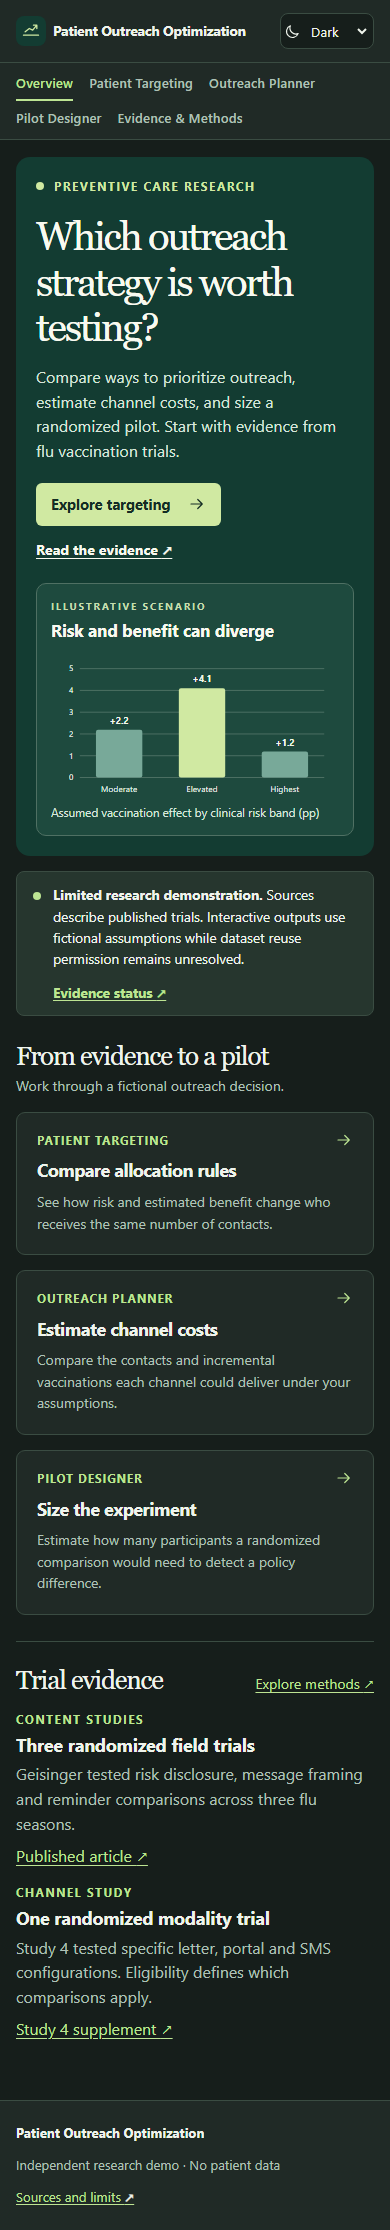
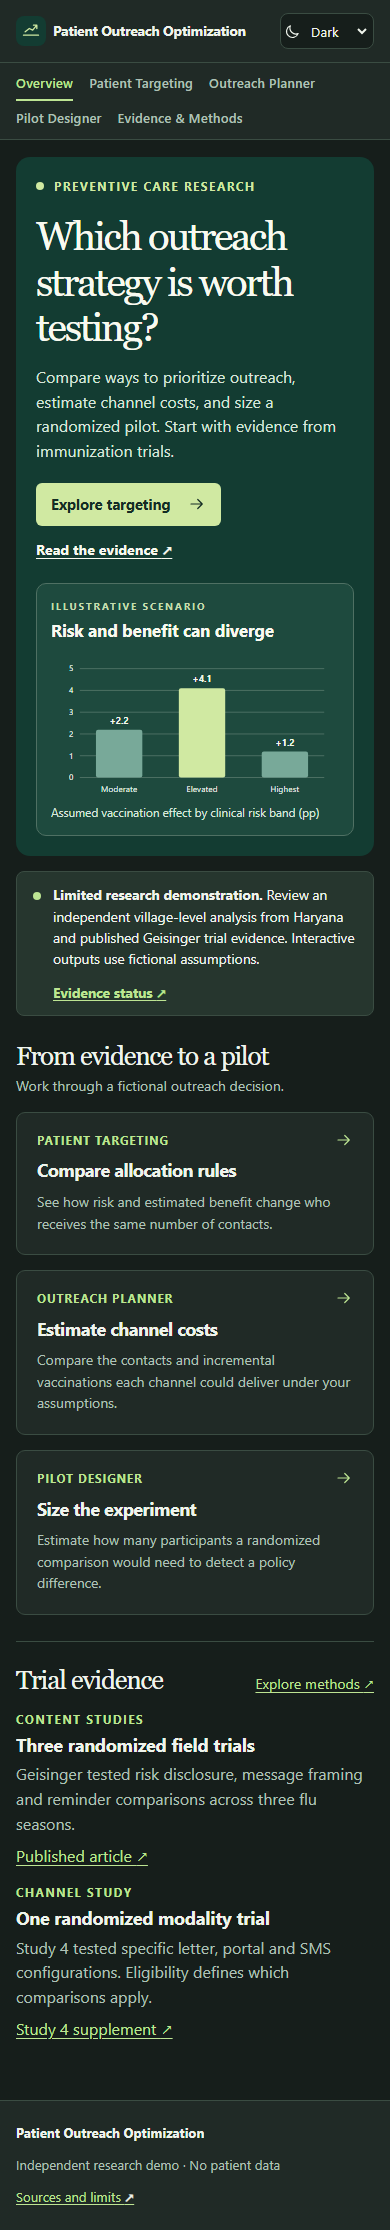
Record verified Haryana release and production screenshots

diff --git a/progress.md b/progress.md
@@ -1,6 +1,6 @@
 # Project progress
 
-2026-11-24 · Limited research demonstration published
+2026-11-24 · Original v0.1.0-demo checkpoint
 
 - The authoritative v1.0 contract was copied byte for byte. Reviewed all four source inputs and archived their unchanged originals locally. The independent review identifies itself as v0.2.
 - Git main holds the bootstrap and the 16cc9ed pre-analysis protocol, tagged research-protocol-v1. The production build is from d988063bb75e2870ad8e26e2edf316919d81c6d6. Use git log for the latest handoff checkpoint.
@@ -18,14 +18,15 @@
 - Verified the openly licensed Haryana immunization package against the deposit checksum and inspected its CSV headers and counts. The prepared analysis file has 28,903 village-month records. The [feasibility review](research/DATASET_FEASIBILITY.md) records the separate cluster-level scope and locks the first independent check against published Figure 4.
 - The independent Haryana check passed both published rounding targets, 1.89 additional measles vaccinations per village-month for information-hub ambassador assignment and a pure-control mean of 7.32. The sample covers 7,370 village-months. Statsmodels agreed with the coefficient and CR0 standard error to `1e-10`. See the [experiment report](docs/EXPERIMENT_REPORT.md#haryana-figure-4-replication) and [run artifact](research/reports/haryana_figure4_replication.json). Design-based uncertainty remains open. The production app serves the limited demo.
 
-## Haryana evidence release candidate
+## Haryana evidence published in v0.2.0-demo
 
 - Protocol commit `f77bfd6` specifies the sensitivity and frozen PHC evaluation. In 902 villages, PHC clustering widened the Figure 4 interval to −0.07 to 3.86 at the same +1.89 estimate. Equal village-month weights gave +0.68. Statsmodels agreed.
 - Fitted preset ridge models on 14 PHCs and evaluated learned and simple rules in 42 villages across 19 separate PHCs. All nominal intervals span zero. The synthetic runs show uneven coverage and illustrative spillover bias. The conditional Fisher diagnostic addresses a distinct null.
 - Verified CC BY 4.0 companion Haryana and CC0 Sierra Leone original files. Sierra Leone provides matched village triplets and a household-randomized component. Its effects have not been estimated here.
 - Geisinger metadata still matches all 20 pins. The node license remains null. The Study 4 notebook confirms the primary subset and six arms. Permission correspondence is drafted and unsent. No participant payloads acquired.
 - Trial benchmark frozen at `571bc45`. Thirty protocols and 35 checks completed. The raw local model and registry matched 3 of 30 scorable fields each. The verifier matched zero and abstained on all five designated cases. Reviewed source summaries remain the release path.
-- Seventeen Python and three Node tests passed, plus Ruff, mypy, strict TypeScript, all 12 local browser tests, advisory queries, the public projection and the five-file allowlist. The prior Pages deployment still serves its four verified asset digests.
+- Seventeen Python tests, three Node tests and 12 local plus 12 live browser tests passed. Ruff, mypy, strict TypeScript, GitHub CI, the public projection and the five-file allowlist passed. npm and the scoped OSV queries reported zero advisories. Eleven local captures matched production. [Verification](docs/TEST_EVIDENCE.md)
+- Build commit `dad2575` serves as `v0.2.0-demo` on the existing Pages project. Deployment ID `75a71ff8-c3c6-414b-b01c-12780f6dca7e`. GitHub publication and stable production were verified. The original deployment still serves its original four asset digests. Additional external service cost was $0. [Deployment ledger](docs/DEPLOYMENT.md)
 
 ## Resume
 

diff --git a/docs/UI_DESIGN.md b/docs/UI_DESIGN.md
@@ -29,7 +29,9 @@ When adding approved research, use the existing Evidence & Methods hierarchy for
 
 ## Screenshot references
 
-Full-page captures use the pinned Playwright Chromium on Windows, default workflow inputs, 1× device scale, and explicit theme selection. The viewport size is the browser viewport before the full page is captured. All nine PNGs matched the local production build and the public application byte for byte on 2026-11-24.
+Full-page captures use the pinned Playwright Chromium on Windows, default workflow inputs, 1× device scale, and explicit theme selection. The viewport size is the browser viewport before the full page is captured. All eleven v0.2.0-demo PNGs matched the local production build and the public application byte for byte on 2026-11-24.
+
+The Overview copy now points readers to the Haryana evidence. Evidence & Methods presents the independent community study above the existing Geisinger trial explorer. The new tables wrap row labels on narrow screens to keep numeric columns visible. The five prior screenshots for Targeting, Planner and Pilot match exactly. Navigation, typography, surfaces and workflow structure follow the approved release. The original captures remain in Git history and the prior deployment is available for comparison. [Prior deployment](https://9112bbb3.patient-outreach-optimization.pages.dev/)
 
 | View | Desktop (1440 × 900), light | Mobile (390 × 844), light | Mobile (390 × 844), dark |
 | --- | --- | --- | --- |
@@ -37,10 +39,10 @@ Full-page captures use the pinned Playwright Chromium on Windows, default workfl
 | Patient Targeting | [Reference](images/patient-targeting.png) | — | — |
 | Outreach Planner | [Reference](images/outreach-planner.png) | — | — |
 | Pilot Designer | [Reference](images/pilot-designer.png) | [Reference](images/pilot-designer-mobile-light.png) | [Reference](images/pilot-designer-mobile-dark.png) |
-| Evidence & Methods | [Reference](images/evidence-and-methods.png) | — | — |
+| Evidence & Methods | [Reference](images/evidence-and-methods.png) | [Reference](images/evidence-and-methods-mobile-light.png) | [Reference](images/evidence-and-methods-mobile-dark.png) |
 
 ## Reviewing changes
 
-1. Build and run `npm run test:browser` from `web`. The browser matrix covers all five views in both themes at 1440 × 900, 1280 × 800, 768 × 1024 and 390 × 844. Chromium writes the reference views to `web/qa-output`.
+1. Build and run `npm run test:browser -- --workers=1` from `web`. The browser matrix covers all five views in both themes at 1440 × 900, 1280 × 800, 768 × 1024 and 390 × 844. Chromium writes the reference views to `web/qa-output`.
 2. On Windows with the pinned Chromium, enable the exact comparison with `$env:OUTREACH_UI_REFERENCE = '1'` in PowerShell and run `npm run test:browser -- --project=chromium`. Set `OUTREACH_LIVE_URL` to run against production. The test reports which comparison failed and retains the new capture for inspection. On other rendering environments, compare the captures visually.
 3. Review any difference at the affected viewport and theme. Record the intended functionality, accessibility or usability change and its visual effect during review. Update the affected references from the verified production release when that change ships. Keep captures in `docs/images` and out of the deployable web directory. [Browser checks](../web/tests/workspace.spec.ts) · [Test evidence](TEST_EVIDENCE.md)

diff --git a/docs/TEST_EVIDENCE.md b/docs/TEST_EVIDENCE.md
@@ -25,3 +25,10 @@ The Haryana reproduction command passed both locked publication-rounding checks.
 - Thirty public trials and 35 document checks completed with the pinned local model. The prespecified release criteria for model assistance failed. See [AI evaluation](AI_EVALUATION.md).
 - Twelve browser tests passed across Chromium, Firefox and WebKit on Windows with one worker. The suite exercises all five views in four viewports and two themes, keyboard workflows, accessibility and source/claim presentation. An earlier unpinned run lacked browser executables, and an initial parallel run hit one Chromium screenshot capture failure. Pinned engines and serial execution recovered.
 - npm audit and OSV batch queries for the ten pinned Python research and PDF dependencies returned zero advisories at verification time. Static asset content and the five-file deployment allowlist passed.
+
+## v0.2.0-demo production verification
+
+- The release source passed the 108-path staged publication scan. GitHub ran its Python, Node, static build and Chromium gates successfully on the deployed commit. [CI run](https://github.com/AbhinavVarma02/Patient-Outreach-Optimization/actions/runs/45544473794)
+- All 12 public browser tests passed on Chromium, Firefox and WebKit. The four served assets matched the release ledger and carried the checked CSP, HSTS and nosniff headers. The site initiated no external requests across the tested views. [Production](https://patient-outreach-optimization.pages.dev/) · [Build digests](../research/reports/public_build_sha256.json)
+- Eleven captured views matched byte for byte locally and live. Five prior workflow screenshots remain byte-identical. Overview and Evidence & Methods reflect the new research and the narrow-screen table fix. The new build size is 78.56 kB JavaScript and 3.19 kB CSS gzip. [Screenshot references](UI_DESIGN.md#screenshot-references)
+- After promotion, the original deployment served all four original public assets with the original hashes. [Previous deployment](https://9112bbb3.patient-outreach-optimization.pages.dev/)

diff --git a/docs/DEPLOYMENT.md b/docs/DEPLOYMENT.md
@@ -11,4 +11,9 @@ npm exec --yes --package=wrangler@4.168.0 -- wrangler pages deploy web/dist --pr
 
 Run creation only when the verified account lacks that project. Wrangler 4.168.0 initially delegated creation to the Workers workflow and failed. The creation-only flag selected direct Pages creation. Deploys to the existing project use the ordinary Pages command. Confirm production domain and HTTPS response headers. Set OUTREACH_LIVE_URL to the verified URL and rerun the browser suite against it. For rollback, select a previously verified production deployment in Pages or rebuild the verified commit and redeploy. Review production after rollback. [Direct Upload documentation](https://developers.cloudflare.com/pages/get-started/direct-upload/) · [Pages rollbacks](https://developers.cloudflare.com/pages/configuration/rollbacks/)
 
-The verified production build came from d988063bb75e2870ad8e26e2edf316919d81c6d6. The first production deployment ID is 9112bbb3-551f-4d76-b7a4-df4e99b1b976. [Stable production URL](https://patient-outreach-optimization.pages.dev/) · [Deployment-specific URL](https://9112bbb3.patient-outreach-optimization.pages.dev/)
+| Release | Build commit | Production deployment ID | Verified deployment |
+| --- | --- | --- | --- |
+| v0.2.0-demo | `dad257536b358a5035f8f51f6da1719b4050fdd5` | `75a71ff8-c3c6-414b-b01c-12780f6dca7e` | [Deployment](https://75a71ff8.patient-outreach-optimization.pages.dev/) |
+| v0.1.0-demo | `d988063bb75e2870ad8e26e2edf316919d81c6d6` | `9112bbb3-551f-4d76-b7a4-df4e99b1b976` | [Preserved deployment](https://9112bbb3.patient-outreach-optimization.pages.dev/) |
+
+The stable production URL serves v0.2.0-demo. Both deployments' assets were verified after promotion. To roll back in Pages, select the earlier verified deployment ID for the same project. Additional external service cost was $0. [Stable production URL](https://patient-outreach-optimization.pages.dev/) · [Test and audit evidence](TEST_EVIDENCE.md)

diff --git a/CHANGELOG.md b/CHANGELOG.md
@@ -1,6 +1,6 @@
 # Changelog
 
-## 0.2.0-demo · Haryana evidence
+## 0.2.0-demo · 2026-11-24
 
 - Documented the approved production UI and added a nine-image, reproducible visual reference set.
 - Verified data reuse evidence and recorded a separately licensed village-level outreach fallback and replication check.
